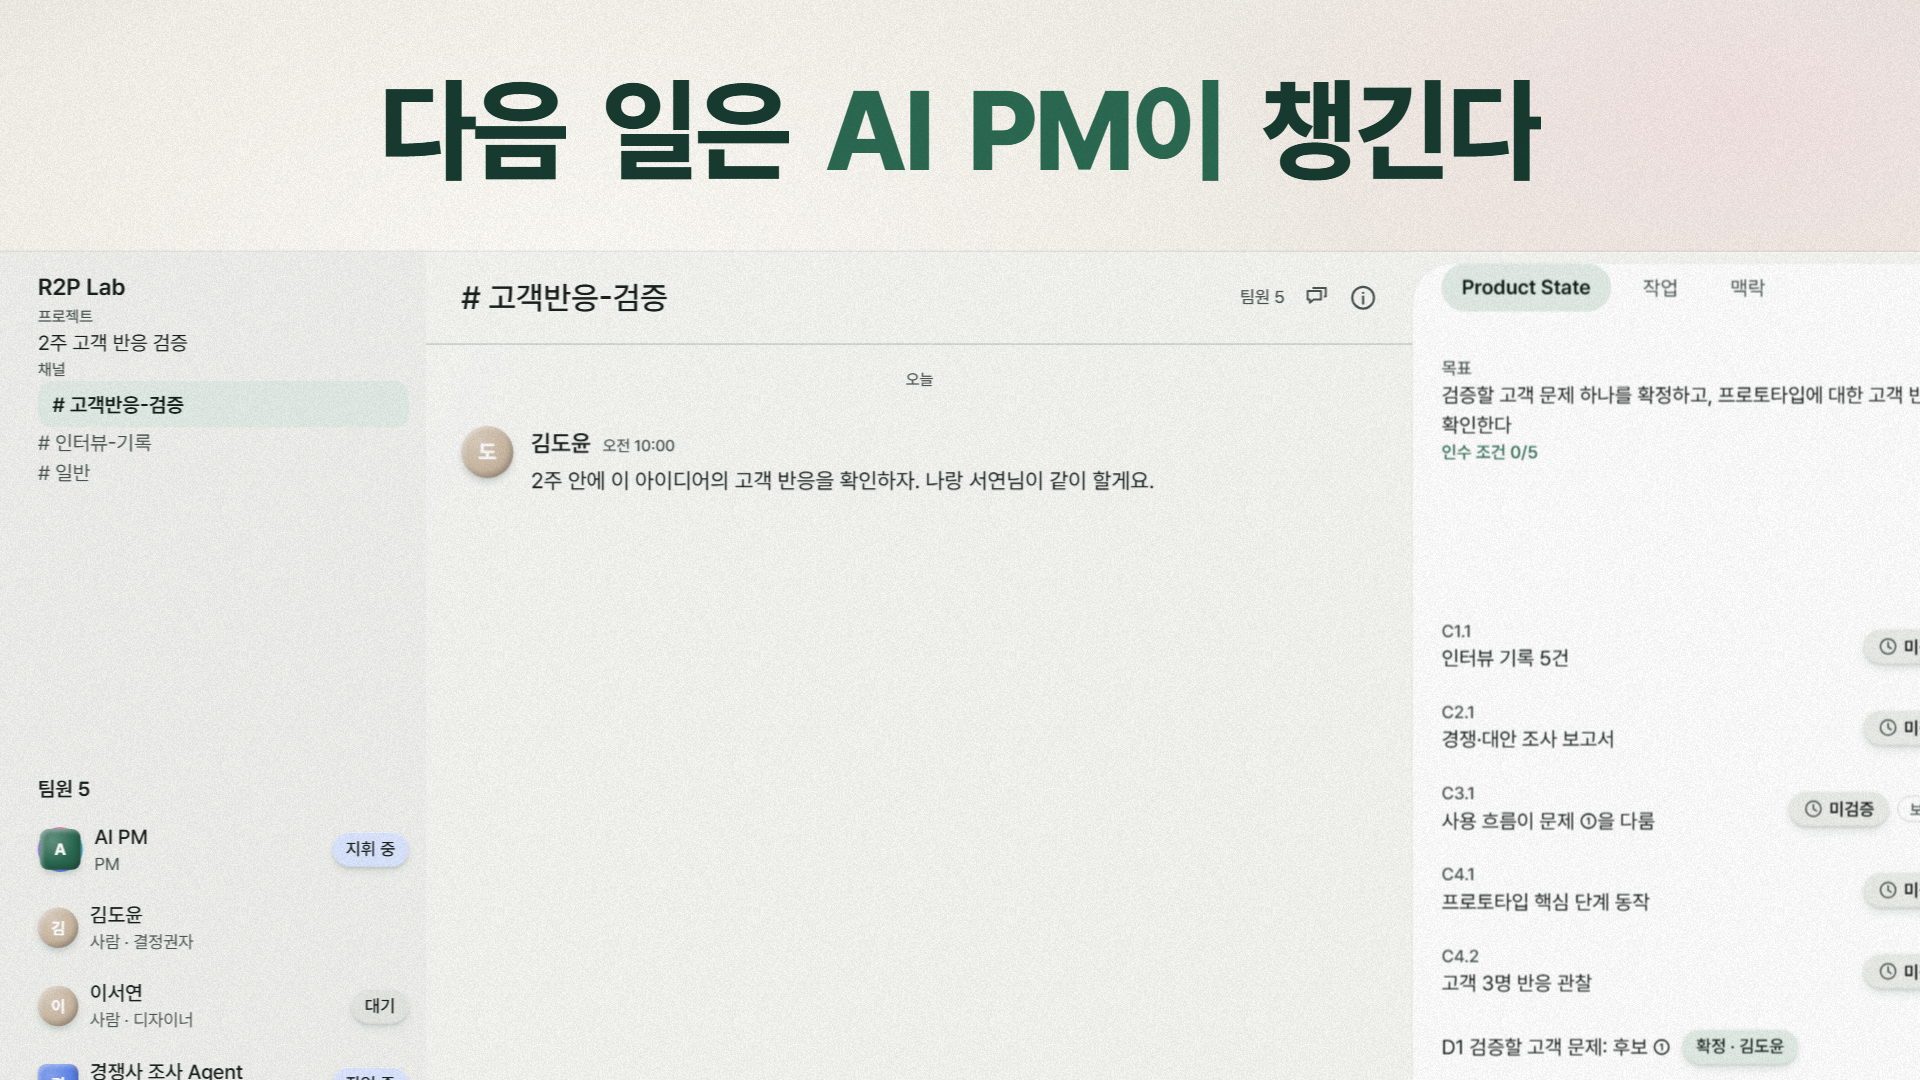
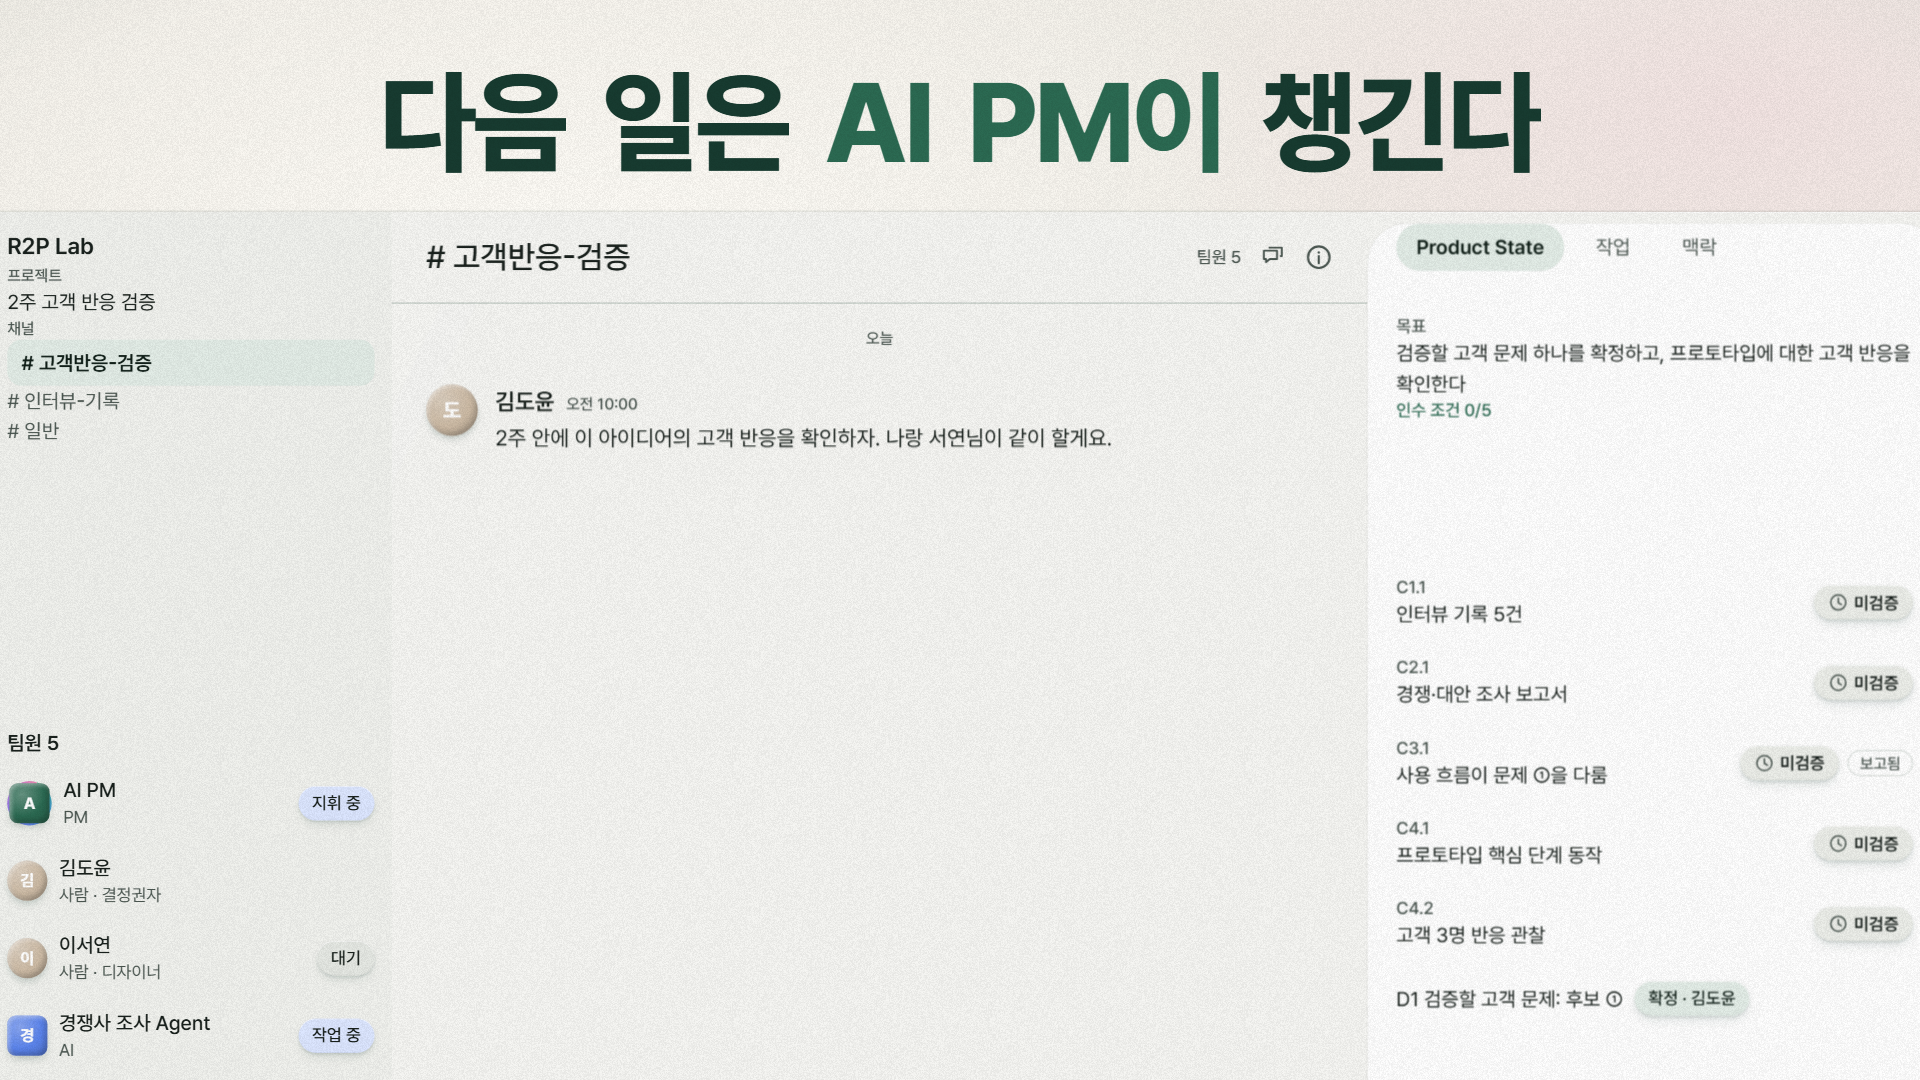
fix(motion-v4): reframe SF1b so no chip or badge is cut by the frame edge
Zoom 1.435 (largest that fits sidebar text through panel badges with body text >= 20px), pan tx 748, board top 212, headline top 64. Adds a whole-frame text/clipping scan to measure.ts. Log round 2.

diff --git a/motion-remotion/src/v4/measure.ts b/motion-remotion/src/v4/measure.ts
@@ -26,6 +26,47 @@ export interface TextTarget {
   within?: string; // CSS selector to search inside (e.g. the hero card)
 }
 
+const FRAME = {w: 1920, h: 1080};
+
+const visibleOpacity = (el: Element) => {
+  let o = 1;
+  for (let e: Element | null = el; e; e = e.parentElement) o *= parseFloat(getComputedStyle(e).opacity || '1');
+  return o;
+};
+
+// Whole-frame scan: every visible element that owns text, with its on-screen
+// font size (computed size x on-screen scale). Reports the smallest sizes and
+// anything a frame edge cuts (text elements and pill-shaped chips/badges).
+const scanFrame = () => {
+  const small: [string, number][] = [];
+  const clipped: string[] = [];
+  let minFont = Infinity;
+  let minText = '';
+  const els = Array.from(document.querySelectorAll<HTMLElement>('div, span'));
+  for (const el of els) {
+    const r = el.getBoundingClientRect();
+    if (r.width < 1 || r.height < 1) continue;
+    const inside = r.right > 0 && r.left < FRAME.w && r.bottom > 0 && r.top < FRAME.h;
+    if (!inside || visibleOpacity(el) < 0.05) continue;
+    const partlyOut = r.left < -0.5 || r.top < -0.5 || r.right > FRAME.w + 0.5 || r.bottom > FRAME.h + 0.5;
+    const txt = ownText(el);
+    const cs = getComputedStyle(el);
+    // chip/badge: a fully rounded box that contains text
+    const isPill = el.offsetHeight > 0 && parseFloat(cs.borderTopLeftRadius) >= el.offsetHeight / 2 - 1 && (el.textContent ?? '').trim().length > 0;
+    if (partlyOut && (txt || isPill)) clipped.push(`${isPill ? 'pill' : 'text'}:${(el.textContent ?? '').trim().slice(0, 18)}`);
+    if (!txt) continue;
+    const scale = el.offsetHeight ? r.height / el.offsetHeight : 1;
+    const f = parseFloat(cs.fontSize) * scale;
+    if (f < minFont) {
+      minFont = f;
+      minText = txt.slice(0, 18);
+    }
+    if (f < 20) small.push([txt.slice(0, 18), r1(f)]);
+  }
+  small.sort((a, b) => a[1] - b[1]);
+  return {minScreenFontPx: r1(minFont), minText, under20: small, clippedByFrame: clipped};
+};
+
 export const measureStill = (still: string, targets: TextTarget[]) => {
   const out: Record<string, unknown> = {still};
   for (const t of targets) {
@@ -80,6 +121,7 @@ export const measureStill = (still: string, targets: TextTarget[]) => {
     const r = hero.getBoundingClientRect();
     out.heroCard = [r1(r.left), r1(r.top), r1(r.right), r1(r.bottom)];
   }
+  out.scan = scanFrame();
   // eslint-disable-next-line no-console
   console.log('V4MEASURE ' + JSON.stringify(out));
 };

diff --git a/motion-remotion/src/v4/config.ts b/motion-remotion/src/v4/config.ts
@@ -39,9 +39,18 @@ export const assertHeldPose = (id: string, pose: CameraPose): HeldRotationName =
 // one consistent object across beats.
 export const FEATURE_ZOOM = 1.45;
 
+// SF1b (landed, no hero card) — round 2: the frame must hold the board's full
+// readable width, sidebar text (x 84) through the panel badges (x 1412), so
+// no chip or badge is cut by a frame edge. That span is 1328 logical; at
+// 1.45 it is 1926px (> 1920). 1.435 is the largest zoom that fits it with a
+// ~7px margin per side, and still keeps bodyMd at 14 * 1.435 = 20.1px.
+export const SF1B_ZOOM = 1.435;
+
 // Screen y of the board's top edge in frontal stills: headlines live in the
 // background band above the board, so they can never overlap UI text.
-export const FRONTAL_BOARD_TOP = {SF1b: 252, SF2: 200, SF3: 200} as const;
+// SF1b's board top (212) is set so the bottom frame edge falls in the gap
+// between sidebar team rows 4 and 5 — row 4's "작업 중" chip was cut at 252.
+export const FRONTAL_BOARD_TOP = {SF1b: 212, SF2: 200, SF3: 200} as const;
 
 const frontal = (tx: number, boardTopScreenY: number, s = FEATURE_ZOOM): CameraPose => ({
   // (ax, ay) = stage center; (tx, ty) = the board-logical point shown there.
@@ -62,8 +71,8 @@ export const STILL_POSES: Record<StillId, CameraPose> = {
   // (tx,ty = board center), right edge swung toward camera so the right side
   // face and the detached wall shadow are both in frame.
   SF1a: {tx: 720, ty: 450, s: 0.8, ...HELD_ROTATIONS.openingStart, ax: 880, ay: 520, dz: 0},
-  // Landed: frontal, pushed in to feature zoom, board centered horizontally.
-  SF1b: frontal(720, FRONTAL_BOARD_TOP.SF1b),
+  // Landed: frontal, pushed in; sidebar text and panel badges both in frame.
+  SF1b: frontal(748, FRONTAL_BOARD_TOP.SF1b, SF1B_ZOOM),
   // Beat 2 (plan): board's top-left corner in frame; plan card left of center,
   // callout chips in the empty timeline gap to its right.
   SF2: frontal(607, FRONTAL_BOARD_TOP.SF2),

diff --git a/motion-remotion/src/v4/StyleFrameV4.tsx b/motion-remotion/src/v4/StyleFrameV4.tsx
@@ -70,7 +70,7 @@ const SF1b: React.FC = () => {
             frame={HEADLINE_FRAME}
             variant="T1"
             align="center"
-            top={72}
+            top={64}
           />
         </TypeLayer>
       }

diff --git a/motion-remotion/review/log-v4-sf.md b/motion-remotion/review/log-v4-sf.md
@@ -88,3 +88,24 @@ Feature zoom s = 1.45 everywhere — the smallest that keeps board body text
 - SF3 marks C1.1 and C2.1 "검증됨" (v3 SF3 showed them "미검증" while the panel
   reads 3/5 with three approved evidence items).
 - "AI PM이" / "PM이" accent includes the particle (KineticHeadline accents whole words).
+
+## Round 2 — SF1b framing: chips/badges cut by the frame edge (one defect type)
+
+Proposition r2 (design-v4.md §4): body ≥ 20px, secondary (bodySm/labels) ≥ 18px,
+hero ≥ 36px; SF1a exempt from text sizes (must still read as UI).
+
+Defect: at s 1.45 centered, the right panel's "미검증"/"보고됨" badges were cut
+at x = 1920 and the 4th team row's "작업 중" chip at y = 1080. The frame must
+hold sidebar text (logical x 84) through the panel badges (x 1412): 1328
+logical, i.e. 1926px at 1.45. Fix (`config.ts`): SF1b zoom 1.435 (bodyMd
+14 → 20.1px), tx 748 (≈7px margin each side), board top 252 → 212 so the
+bottom edge falls between team rows 4 and 5; headline top 72 → 64.
+`measure.ts` gained a whole-frame scan (smallest on-screen text, every text
+element / pill cut by a frame edge).
+
+Result `review/v4/SF1b.png`: clippedByFrame = [] (was 16 entries); body text
+M1 21.5px, panel goal 20.1px; headline ends y 181.6, board starts y 212 (30px).
+Tradeoff, not hidden: side margins are only ~7px, and the headline-to-board gap
+shrank from ~62px to 30px — the price of fitting the full width at ≥ 20px.
+Seen, not fixed (other stills, same defect type, outside this round's scope):
+SF2's out-of-focus panel is cut by the right edge, including its "확정 · 김도윤" chip.
